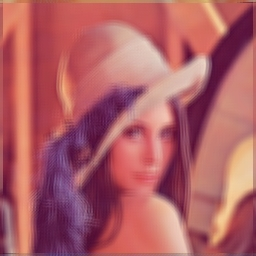
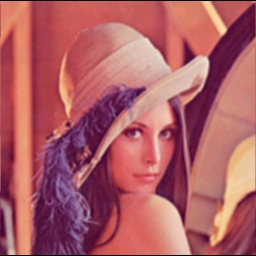
mpi(openmp) 32cores:1259ms

diff --git a/project1/src/cpu/mpi_PartB.cpp b/project1/src/cpu/mpi_PartB.cpp
@@ -2,6 +2,7 @@
 #include <iostream>
 #include <vector>
 #include <chrono>
+#include <omp.h>    // OpenMP header
 
 #include <mpi.h>    // MPI Header
 
@@ -39,7 +40,7 @@ int main(int argc, char** argv) {
 
     // Read JPEG File
     const char * input_filepath = argv[1];
-    std::cout << "Input file from: " << input_filepath << "\n";
+    // std::cout << "Input file from: " << input_filepath << "\n";
     auto input_jpeg = read_from_jpeg(input_filepath);
     if (input_jpeg.buffer == NULL) {
         std::cerr << "Failed to read input JPEG image\n";
@@ -64,36 +65,46 @@ int main(int argc, char** argv) {
     // auto f_B = new unsigned char[input_jpeg.width * input_jpeg.height];
 
 
-    auto start_time = std::chrono::high_resolution_clock::now();
+
 
     // Divide the task
     // For example, there are 11 pixels and 3 tasks, 
     // we try to divide to 4 4 3 instead of 3 3 5
-    int total_pixel_num = input_jpeg.width * input_jpeg.height;
-    int pixel_num_per_task = total_pixel_num / numtasks;
-    int left_pixel_num = total_pixel_num % numtasks;
 
+    int total_pixel_num =(input_jpeg.width) * (input_jpeg.height-2);
+    int pixel_num_per_task = (total_pixel_num +(numtasks-1))/ numtasks;
     std::vector<int> cuts(numtasks + 1, 0);
-    int divided_left_pixel_num = 0;
 
-    for (int i = 0; i < numtasks; i++) {
-        if (divided_left_pixel_num < left_pixel_num) {
-            cuts[i+1] = cuts[i] + pixel_num_per_task + 1;
-            divided_left_pixel_num++;
-        } else cuts[i+1] = cuts[i] + pixel_num_per_task;
+    int i = 0;
+    cuts[0] = input_jpeg.width;
+    while (i < numtasks-1){
+        cuts[i+1] = cuts[i] + pixel_num_per_task;
+        i++;
     }
+    cuts[i+1] = (input_jpeg.width) * (input_jpeg.height-1);
+    // // std::cout<<numtasks<<std::endl;
+    // // for (int i = 0; i < numtasks;i++){
+    // //     std::cout<<cuts[i]<<std::endl;
+    // // }
 
     // The tasks for the master executor
     // 1. Transform the first division of the RGB contents to the Gray contents
     // 2. Receive the transformed Gray contents from slave executors
     // 3. Write the Gray contents to the JPEG File
+    // std::cout<<taskid<<std::endl;
     if (taskid == MASTER) {
         // Transform the first division of RGB Contents to the gray contents
+
         auto filteredImage = new unsigned char[input_jpeg.width * input_jpeg.height * input_jpeg.num_channels];
+        
+        auto start_time = std::chrono::high_resolution_clock::now();
+            
+        #pragma omp parallel for default(none) shared(rChannel, gChannel, bChannel, filteredImage, input_jpeg, filter, cuts)
+
         for (int i = cuts[MASTER]; i < cuts[MASTER + 1]; i++) {
             int sum_r = 0, sum_g = 0, sum_b = 0;
             for (int f = 0; f < FILTER_SIZE; f++) {
-                int index = ((f/3-1)* input_jpeg.width + (f%3-1)) * input_jpeg.num_channels + i;
+                int index = ((f/3-1)* input_jpeg.width + (f%3-1)+i);
                 unsigned char r = rChannel[index];
                 unsigned char g = gChannel[index];
                 unsigned char b = bChannel[index];
@@ -145,11 +156,13 @@ int main(int argc, char** argv) {
         // Transform the RGB Contents to the gray contents
         int length = (cuts[taskid + 1] - cuts[taskid]) *input_jpeg.num_channels; 
         auto filteredImage = new unsigned char[length];
-                    // int j = i-cuts[taskid];????????????
-        for (int i = cuts[taskid]; i < cuts[taskid + 1]; i++) {
+
+        #pragma omp parallel for default(none) shared(rChannel, gChannel, bChannel, filteredImage, input_jpeg, filter, cuts)
+
+        for (int i = 0; i < cuts[taskid + 1]-cuts[taskid]; i++) {
             int sum_r = 0, sum_g = 0, sum_b = 0;
             for (int f = 0; f < FILTER_SIZE; f++) {
-                int index = ((f/3-1)* input_jpeg.width + (f%3-1)) * input_jpeg.num_channels + i;
+                int index = ((f/3-1)* input_jpeg.width + (f%3-1)+ i+cuts[taskid]);
                 unsigned char r = rChannel[index];
                 unsigned char g = gChannel[index];
                 unsigned char b = bChannel[index];
@@ -158,11 +171,9 @@ int main(int argc, char** argv) {
                 sum_b += b * filter[f];
             }
 
-            filteredImage[(i-cuts[taskid])*input_jpeg.num_channels] = static_cast<unsigned char>(sum_r);
-            filteredImage[(i-cuts[taskid])*input_jpeg.num_channels+1] = static_cast<unsigned char>(sum_g);
-            filteredImage[(i-cuts[taskid])*input_jpeg.num_channels+2] = static_cast<unsigned char>(sum_b);
-            // int j = (i-cuts[taskid]);
-            // filteredImage[i] = static_cast<unsigned char>(0.299 * r + 0.587 * g + 0.114 * b);
+            filteredImage[i*input_jpeg.num_channels] = static_cast<unsigned char>(sum_r);
+            filteredImage[i*input_jpeg.num_channels+1] = static_cast<unsigned char>(sum_g);
+            filteredImage[i*input_jpeg.num_channels+2] = static_cast<unsigned char>(sum_b);
         }
 
         // Send the gray image back to the master
